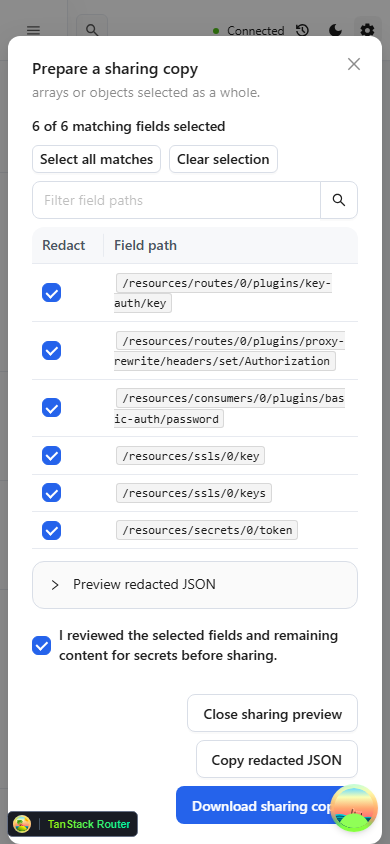
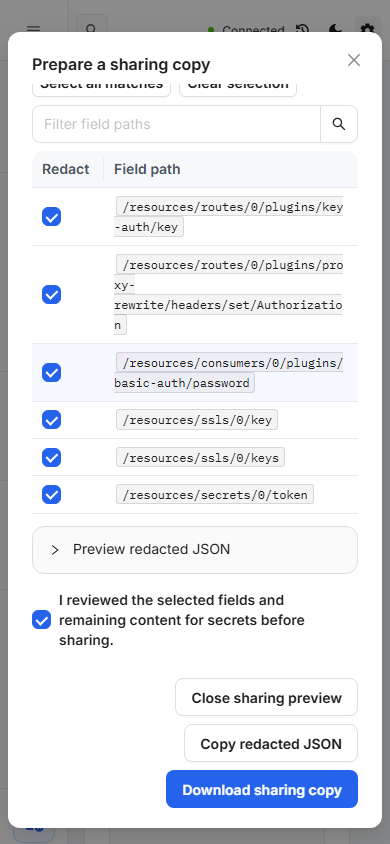
fix(export): keep sharing actions visible with production fonts

Changed region(s): [[0.0, 0.0308, 0.9846, 1.0], [0.8, 0.1232, 0.8923, 0.154], [0.0923, 0.3389, 0.1538, 0.3697]]

diff --git a/e2e/tests/sharing-redaction.spec.ts b/e2e/tests/sharing-redaction.spec.ts
@@ -95,6 +95,7 @@ async function setup(page: Page) {
     await route.fulfill({ json: { list: [], total: 0 } });
   });
   await page.goto('export_import');
+  await page.evaluate(async () => { await document.fonts.ready; });
   await page.getByRole('button', { name: 'Prepare redacted copy', exact: true }).click();
   return requests;
 }
@@ -164,6 +165,9 @@ test('clipboard failures keep a reviewed copy recoverable and narrow keyboard co
   const button = dialog(page).getByRole('button', { name: 'Download sharing copy' });
   await expect(button).toBeEnabled(); await expect(button).toBeInViewport();
   expect(await dialog(page).evaluate((node) => node.scrollWidth <= node.clientWidth)).toBe(true);
+  await page.setViewportSize({ width: 390, height: 640 });
+  await expect(button).toBeInViewport({ ratio: 1 });
+  await page.setViewportSize({ width: 390, height: 844 });
   await review(page).scrollIntoViewIfNeeded();
   await page.screenshot({ path: test.info().outputPath('sharing-redaction-narrow.png'), animations: 'disabled' });
   await page.keyboard.press('Escape');

diff --git a/src/components/page/SharingRedaction.tsx b/src/components/page/SharingRedaction.tsx
@@ -77,7 +77,9 @@ export function SharingRedaction() {
   return <>
     <Button size="large" onClick={() => setOpen(true)}>Prepare redacted copy</Button>
     <Modal open={open} title="Prepare a sharing copy" width={1040} onCancel={close} destroyOnHidden
-      styles={{ body: { maxHeight: 'calc(100dvh - 250px)', overflowY: 'auto' } }}
+      style={{ top: 24, paddingBottom: 0 }}
+      styles={{ container: { maxHeight: 'calc(100dvh - 48px)', display: 'flex', flexDirection: 'column' },
+        header: { flexShrink: 0 }, footer: { flexShrink: 0 }, body: { minHeight: 0, overflowY: 'auto' } }}
       footer={<Space wrap style={{ width: '100%', justifyContent: 'flex-end' }}>
         <Button onClick={close}>Close sharing preview</Button>
         <Button disabled={!ready} loading={copying} onClick={() => void copy()}>Copy redacted JSON</Button>
